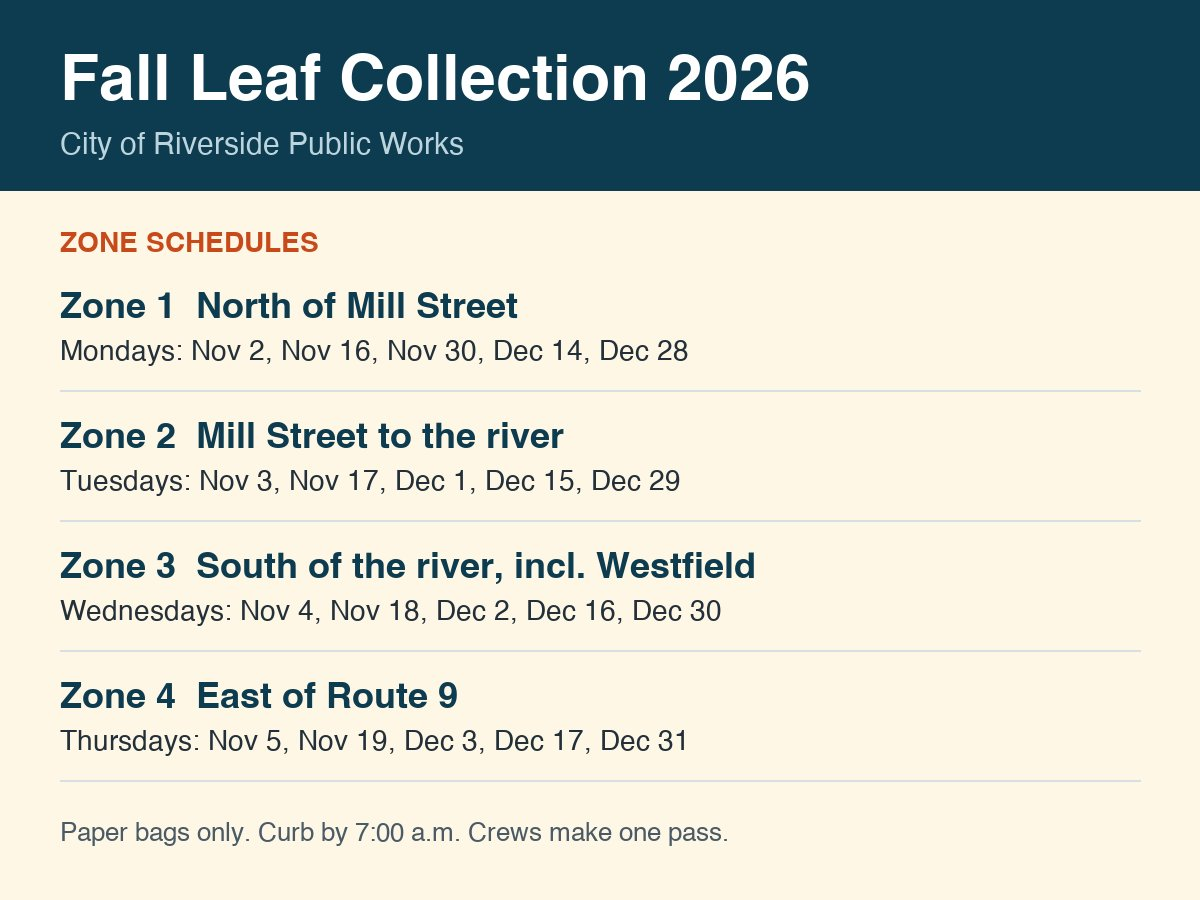
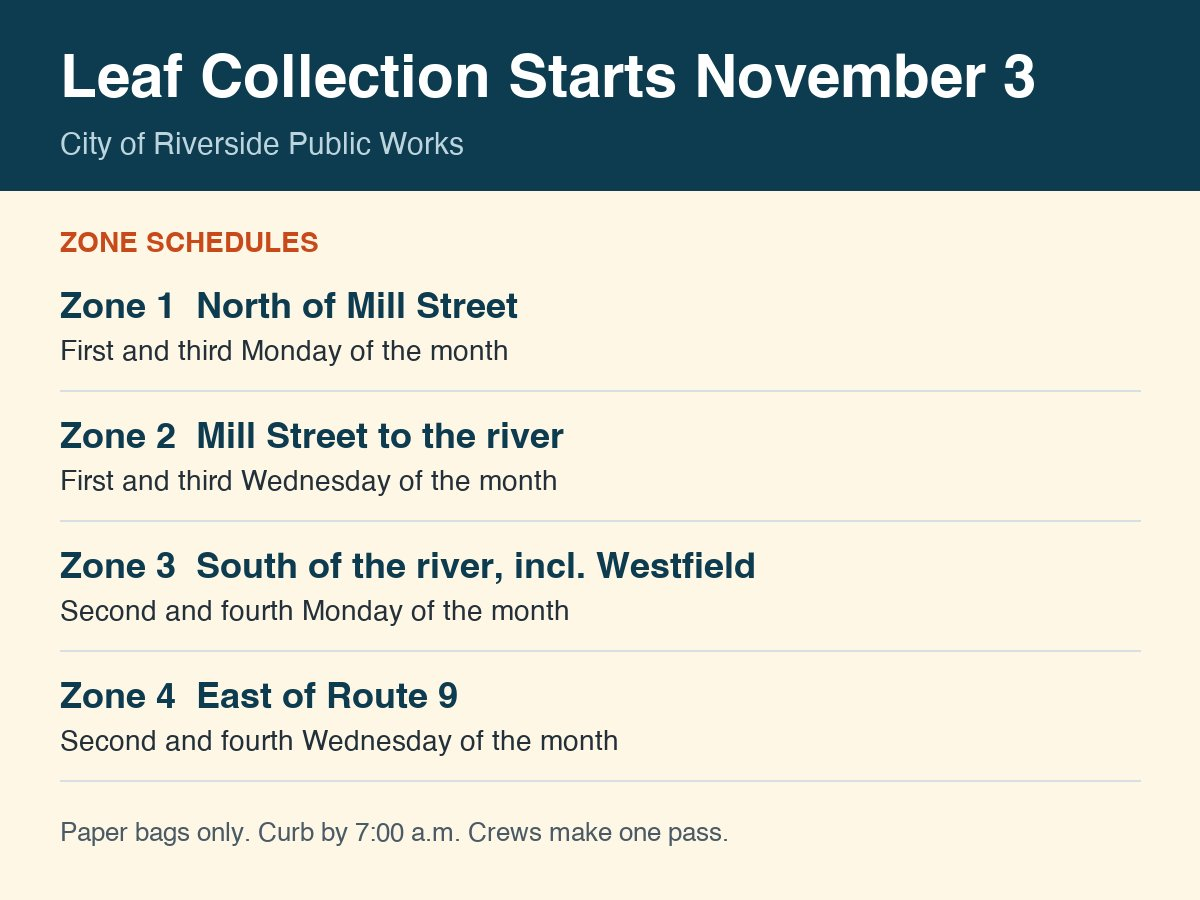
Add the corrected version for Exercise 7.1
Date in the heading, real outline, schedule and status as tables with
words, links that say where they go. Flyer regenerated to match.

diff --git a/course-2/leaf-notice-correct-page.html b/course-2/leaf-notice-correct-page.html
@@ -1,0 +1,139 @@
+<!DOCTYPE html>
+<!--
+  TRAINING ARTIFACT: the corrected version of the Exercise 7.1 notice.
+  Same facts as the post under review, with a date in the heading, a real
+  outline, the schedule and status as tables with words, and links that say
+  where they go. The flyer stays as a supporting image.
+-->
+<html lang="en">
+<head>
+<meta charset="utf-8">
+<meta name="viewport" content="width=device-width, initial-scale=1">
+<title>Leaf collection starts November 3 | Riverside Public Works</title>
+<meta name="description" content="Leaf collection starts November 3. Zone schedules, collection status and the zone map for the City of Riverside.">
+<style>
+  :root { --navy: #0d3b4f; --teal: #1a7a6a; --sand: #f6f3ee; --ink: #23303a; --line: #d8dfe3; }
+  * { box-sizing: border-box; }
+  body { margin: 0; background: var(--sand); color: var(--ink); font-family: "Segoe UI", Roboto, Helvetica, Arial, sans-serif; line-height: 1.6; }
+  :focus-visible { outline: 3px solid #b32020; outline-offset: 2px; }
+  .skip { position: absolute; left: -9999px; top: 0; background: var(--navy); color: #fff; padding: 10px 16px; z-index: 10; }
+  .skip:focus { left: 12px; top: 12px; }
+  header.site { background: var(--navy); color: #fff; padding: 18px 24px; }
+  .wrap { max-width: 980px; margin: 0 auto; }
+  .brandline { display: flex; align-items: baseline; gap: 14px; flex-wrap: wrap; }
+  .seal { width: 44px; height: 44px; border-radius: 50%; background: #ffd166; color: var(--navy); display: grid; place-items: center; font-weight: 700; font-size: 15px; letter-spacing: .5px; flex: 0 0 auto; }
+  .brandline .name { font-size: 1.25rem; margin: 0; font-weight: 700; }
+  .brandline p { margin: 0; font-size: .85rem; color: #bcd4dd; }
+  nav.site { background: var(--teal); }
+  nav.site ul { max-width: 980px; margin: 0 auto; padding: 0 24px; list-style: none; display: flex; flex-wrap: wrap; gap: 4px; }
+  nav.site a { display: block; padding: 12px 16px; color: #fff; text-decoration: none; font-size: .95rem; }
+  nav.site a:hover, nav.site a:focus { background: rgba(0,0,0,.22); text-decoration: underline; }
+  nav.site a[aria-current="page"] { background: rgba(0,0,0,.3); font-weight: 700; }
+  main { padding: 32px 24px 56px; }
+  .crumbs { font-size: .85rem; color: #5b6b76; margin: 0 0 18px; }
+  .crumbs a { color: #145e78; }
+  h1 { font-size: 2rem; margin: 0 0 18px; color: var(--navy); line-height: 1.2; }
+  .lede { margin: 0 0 28px; padding: 18px 22px; background: #fff8e1; border-left: 5px solid #e0a800; border-radius: 0 8px 8px 0; font-size: 1.1rem; }
+  .lede p { margin: 0; }
+  .card { background: #fff; border: 1px solid var(--line); border-radius: 10px; padding: 26px; box-shadow: 0 1px 3px rgba(0,0,0,.06); }
+  .card h2 { font-size: 1.35rem; color: var(--navy); margin: 28px 0 10px; }
+  .card h2:first-child { margin-top: 0; }
+  .card h3 { font-size: 1.05rem; color: var(--navy); margin: 18px 0 6px; }
+  .card p, .card ul, .card ol { margin: 0 0 14px; }
+  .card li { margin-bottom: 6px; }
+  table { border-collapse: collapse; width: 100%; margin: 0 0 14px; }
+  caption { text-align: left; font-weight: 700; padding: 0 0 8px; color: var(--navy); }
+  th, td { border: 1px solid var(--line); padding: 10px 12px; text-align: left; vertical-align: top; }
+  th { background: #eef4f6; }
+  .fine { font-size: .9rem; color: #4a5b66; border-top: 1px solid var(--line); padding-top: 14px; margin-top: 24px; }
+  a { color: #145e78; }
+  .dot { display: inline-block; width: 12px; height: 12px; border-radius: 50%; margin-right: 8px; vertical-align: middle; }
+  .dot.open { background: #1f8a3c; } .dot.full { background: #c22b2b; }
+  .flyer { display: block; max-width: 520px; width: 100%; height: auto; border: 1px solid var(--line); border-radius: 6px; margin-top: 8px; }
+  footer.site { background: var(--navy); color: #cfe0e7; padding: 26px 24px; font-size: .9rem; }
+  footer.site p { margin: 0 0 6px; }
+  footer.site a { color: #ffd166; }
+  @media (max-width: 700px) { h1 { font-size: 1.55rem; } .card { padding: 18px; } }
+</style>
+<script src="xray.js" defer></script>
+</head>
+<body>
+<a class="skip" href="#main">Skip to main content</a>
+
+<header class="site">
+  <div class="wrap brandline">
+    <span class="seal" aria-hidden="true">RPW</span>
+    <div>
+      <p class="name">Riverside Public Works</p>
+      <p>City of Riverside &middot; Department of Public Works</p>
+    </div>
+  </div>
+</header>
+
+<nav class="site" aria-label="Main">
+  <ul>
+    <li><a href="#">Home</a></li>
+    <li><a href="#">Streets</a></li>
+    <li><a href="#" aria-current="page">Trash &amp; Recycling</a></li>
+    <li><a href="#">Water &amp; Sewer</a></li>
+    <li><a href="#">Contact</a></li>
+  </ul>
+</nav>
+
+<main id="main">
+  <div class="wrap">
+    <nav class="crumbs" aria-label="Breadcrumb"><a href="#">Home</a> &rsaquo; <a href="#">News and notices</a> &rsaquo; Leaf collection</nav>
+
+    <h1>Leaf collection starts November 3</h1>
+
+    <div class="card">
+
+      <h2>Zone assignments have changed</h2>
+      <p>The Westfield area has moved to <strong>Zone 3</strong>. Check your zone before your first collection day.</p>
+
+      <h2>Collection schedule</h2>
+      <table>
+        <caption>Leaf collection days by zone</caption>
+        <thead><tr><th scope="col">Zone</th><th scope="col">Collection days</th></tr></thead>
+        <tbody>
+          <tr><th scope="row">Zone 1</th><td>First and third Monday</td></tr>
+          <tr><th scope="row">Zone 2</th><td>First and third Wednesday</td></tr>
+          <tr><th scope="row">Zone 3</th><td>Second and fourth Monday</td></tr>
+          <tr><th scope="row">Zone 4</th><td>Second and fourth Wednesday</td></tr>
+        </tbody>
+      </table>
+
+      <h2>Collection status</h2>
+      <table>
+        <caption>Collection status this week</caption>
+        <thead><tr><th scope="col">Zone</th><th scope="col">Status</th></tr></thead>
+        <tbody>
+          <tr><th scope="row">Zone 1</th><td><span class="dot open" aria-hidden="true"></span>Collected</td></tr>
+          <tr><th scope="row">Zone 2</th><td><span class="dot open" aria-hidden="true"></span>Collected</td></tr>
+          <tr><th scope="row">Zone 3</th><td><span class="dot full" aria-hidden="true"></span>Not yet collected</td></tr>
+          <tr><th scope="row">Zone 4</th><td><span class="dot full" aria-hidden="true"></span>Not yet collected</td></tr>
+        </tbody>
+      </table>
+
+      <h2>Links</h2>
+      <ul>
+        <li><a href="#zones">Find your leaf collection zone</a></li>
+        <li><a href="zone-map.pdf">Download the zone map (PDF, 1.2 MB)</a></li>
+        <li><a href="#contact">Contact Public Works about leaf collection</a></li>
+      </ul>
+
+      <img class="flyer" src="img/leaf-flyer.jpg" width="1200" height="900" alt="Leaf collection flyer. The schedule table above has the same information.">
+
+    </div>
+  </div>
+</main>
+
+<footer class="site">
+  <div class="wrap">
+    <p>City of Riverside Department of Public Works &middot; 1200 Industrial Drive, Riverside</p>
+    <p><a href="#">Accessibility Statement</a> &middot; <a href="#">Privacy</a> &middot; <a href="#">Site Map</a></p>
+  </div>
+</footer>
+
+</body>
+</html>

diff --git a/course-2/reviewing-a-real-post.html b/course-2/reviewing-a-real-post.html
@@ -127,7 +127,7 @@
       <li>Read it once as a resident who wants to know when their leaves get picked up.</li>
       <li>Read it again as a screen reader user: headings only, then the links list, then the images.</li>
       <li>Stuck? Choose <strong>Show how this page is built</strong> inside the post. Hover or Tab to any piece to see its real tag, its alt text, and what a screen reader announces.</li>
-      <li>List what is wrong, <strong>most serious first</strong>, then open the answers and compare your order.</li>
+      <li>List what is wrong, <strong>most serious first</strong>, then open the answers and compare your order. The key links to the corrected version.</li>
     </ol>
   </section>
 
@@ -140,7 +140,7 @@
       <h2>Leaf Collection</h2>
       <p><strong>Important Notice</strong></p>
       <p>The leaf collection program starts soon. Zone assignments have changed. <a href="#info">Click here</a> for more info. For the map, <a href="#map">click here</a>. Questions? <a href="#contact">Click here</a>.</p>
-      <img class="flyer" src="img/leaf-flyer.jpg" width="1200" height="900" data-xray-text="Fall Leaf Collection 2026|City of Riverside Public Works|Zone schedules|Zone 1, North of Mill Street, Mondays: Nov 2, Nov 16, Nov 30, Dec 14, Dec 28|Zone 2, Mill Street to the river, Tuesdays: Nov 3, Nov 17, Dec 1, Dec 15, Dec 29|Zone 3, South of the river including Westfield, Wednesdays: Nov 4, Nov 18, Dec 2, Dec 16, Dec 30|Zone 4, East of Route 9, Thursdays: Nov 5, Nov 19, Dec 3, Dec 17, Dec 31|Paper bags only. Curb by 7:00 a.m. Crews make one pass.">
+      <img class="flyer" src="img/leaf-flyer.jpg" width="1200" height="900" data-xray-text="Leaf Collection Starts November 3|City of Riverside Public Works|Zone schedules|Zone 1, North of Mill Street, first and third Monday of the month|Zone 2, Mill Street to the river, first and third Wednesday of the month|Zone 3, South of the river including Westfield, second and fourth Monday of the month|Zone 4, East of Route 9, second and fourth Wednesday of the month|Paper bags only. Curb by 7:00 a.m. Crews make one pass.">
       <p>Status: Zone 1 <span class="dot open"></span> Zone 2 <span class="dot open"></span> Zone 3 <span class="dot full"></span> Zone 4 <span class="dot full"></span></p>
     </div>
   </article>
@@ -165,6 +165,10 @@
         <li><strong>No alt text on the flyer image,</strong> though as noted, alt text isn&rsquo;t the fix here. <span class="sc">WCAG 1.1.1 Non-text Content (A)</span></li>
       </ol>
       <p>Seven problems in five sentences. Every one of them was a choice made in the editor, and every one has a fix that takes less time than typing the post did.</p>
+
+      <h3>The corrected version</h3>
+      <p>A date in the heading. A real outline: zone change, schedule, status, links. The schedule and the status are tables, and the status says &ldquo;Collected&rdquo; or &ldquo;Not yet collected&rdquo; in words, with the dot kept as a redundant cue. Three links that say where they go, and the PDF named as a PDF with its size. The flyer stays, with alt text that points to the table.</p>
+      <p><a class="open" href="leaf-notice-correct-page.html" target="_blank" rel="noopener">Open the corrected page <span class="sr-only">(opens in a new tab)</span><span aria-hidden="true">&nearr;</span></a></p>
     </div>
   </details>
 
